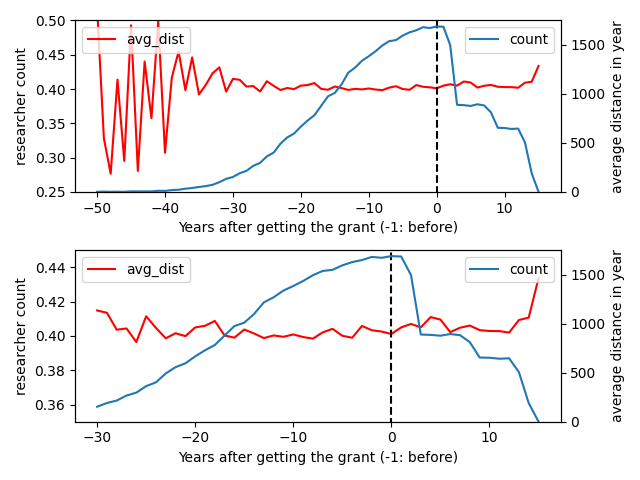
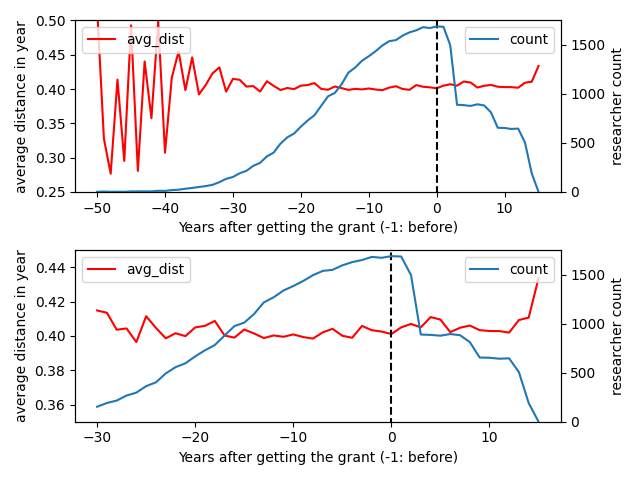
Update

diff --git a/MainScripts/AnalyzeData.py b/MainScripts/AnalyzeData.py
@@ -191,8 +191,8 @@ def yearly_averages_for_authors(model):
     filtered.plot(kind='line', x='dt', y="count", ax=ax2)  # number of researchers with >1 researchers
     filtered.plot(kind='line', x='dt', y="avg_dist", ax=ax1, color='red')
     ax1.set_xlabel("Years after getting the grant (-1: before)")
-    ax1.set_ylabel('researcher count')
-    ax2.set_ylabel('average distance in year')
+    ax1.set_ylabel('average distance in year')
+    ax2.set_ylabel('researcher count')
     ax2.set_ylim(0, 1750)
     ax1.set_ylim(0.25, 0.5)
     ax1.vlines(x=0, ymin=-1, ymax=1, linestyles='dashed', color="black")
@@ -205,37 +205,19 @@ def yearly_averages_for_authors(model):
     filtered.plot(kind='line', x='dt', y="count", ax=ax4)  # number of researchers with >1 researchers
     filtered.plot(kind='line', x='dt', y="avg_dist", ax=ax3, color='red')
     ax3.set_xlabel("Years after getting the grant (-1: before)")
-    ax3.set_ylabel('researcher count')
-    ax4.set_ylabel('average distance in year')
+    ax3.set_ylabel('average distance in year')
+    ax4.set_ylabel('researcher count')
     ax4.set_ylim(0, 1750)
     ax3.set_ylim(0.35, 0.45)
     ax3.legend(loc='upper left')
     ax4.legend(loc='upper right')
     ax3.vlines(x=0, ymin=-1, ymax=1, linestyles='dashed', color="black")
 
-    '''
-    reg_total = linregress(filtered['dt'].values, filtered['avg_dist'].values)
-    reg_before = linregress(filtered.loc[filtered['dt'] < 0]['dt'].values, filtered.loc[filtered['dt'] < 0]['avg_dist'].values)
-    reg_after = linregress(filtered.loc[filtered['dt'] >= 0]['dt'].values, filtered.loc[filtered['dt'] >= 0]['avg_dist'].values)
-    ax.axline(xy1=(0, reg_total.intercept), slope=reg_total.slope, linestyle="--", color="black")
-    ax.axline(xy1=(0, reg_before.intercept), slope=reg_before.slope, linestyle="--", color="red")
-    ax.axline(xy1=(0, reg_after.intercept), slope=reg_after.slope, linestyle="--", color="blue")
-    '''
+
     plt.tight_layout()
 
     plt.savefig('AnalyzeData/normalized_averages.png')
 
-
-def normalized_comp_temp():
-    df = pd.DataFrame
-    ax = plt.gca()
-    ax2 = ax.twinx()
-    df.plot(kind='bar', x='dt', y="count", ax=ax)
-    df.plot(kind='line', x='dt', y="avg", ax=ax2, color='red')
-    ax.set_xlabel("Years after getting the grant (-1: before)")
-    ax.set_ylabel('researcher count')
-    ax2.set_ylabel('average distance in year')
-    plt.savefig('AnalyzeData/models.png')
 
 
 if __name__ == "__main__":
@@ -243,5 +225,5 @@ if __name__ == "__main__":
     # compare_models()
     # analyze_per_year('umass')
     # analyze_before_after('cv')
-    analyze_before_after("umass")
-
+    # analyze_before_after("umass")
+    yearly_averages_for_authors('umass')

diff --git a/HelperObjects/Analyzer.py b/HelperObjects/Analyzer.py
@@ -190,12 +190,6 @@ class Analyzer:
             df = df.drop(['raw_data', 'bow', 'lemmatized'], axis=1)
             del (df1, df2, df3)
 
-            # TODO: for most of the researchers there is not enough articles published each
-            #  year to get a meaningful 'average distance'
-            #  out of the year-author combinations 35843 of them have more than 1 publications
-            #  and 7318 of them have 1 or less
-            #  the results are for the other ones
-
             collector = {
                 "dt": [],
                 "avg_dist":[],
